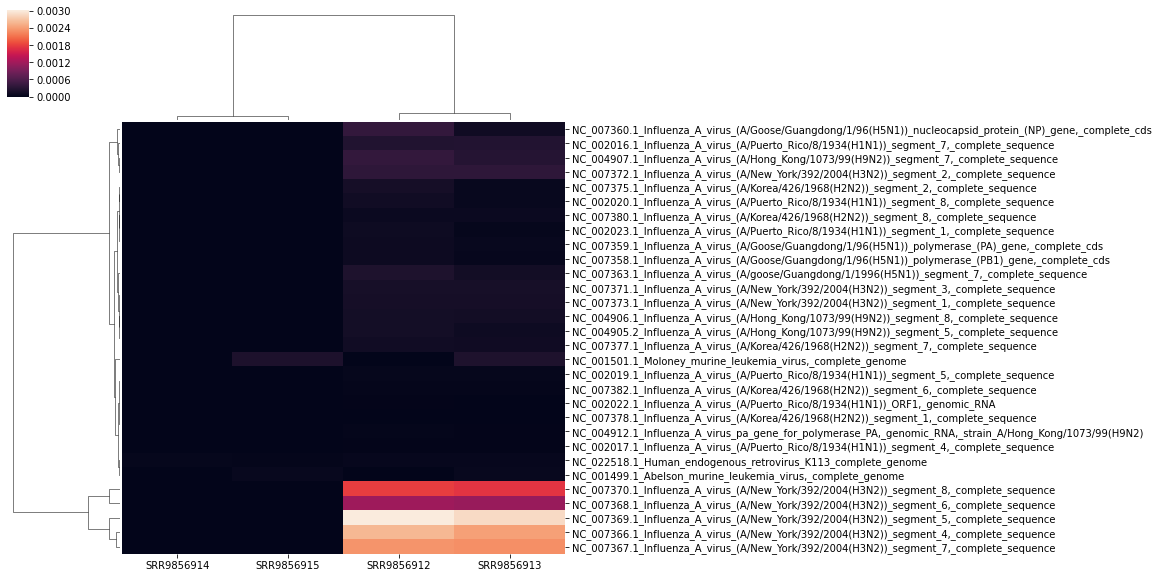
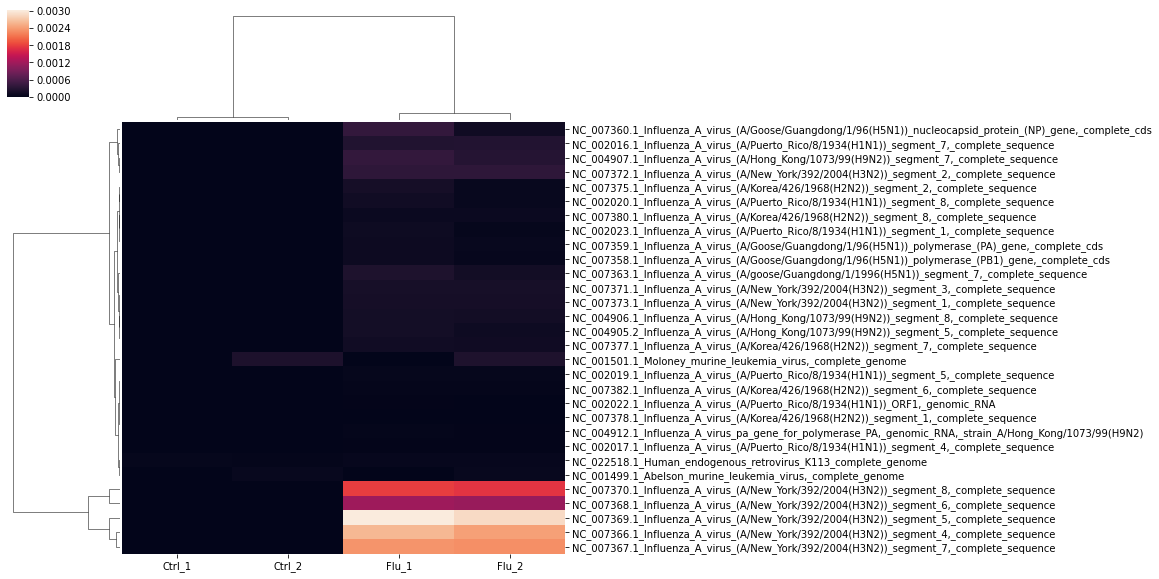
create bin dir

diff --git a/wrapper/VIRTUS_wrapper.py b/wrapper/VIRTUS_wrapper.py
@@ -17,7 +17,7 @@ mpl.rcParams['ps.fonttype'] = 42
 parser = argparse.ArgumentParser()
 
 parser.add_argument('input_path')
-parser.add_argument('--VIRTUSDir', required = True)
+parser.add_argument('--VIRTUSDir', default = os.path.dirname(os.path.abspath(__file__)))
 parser.add_argument('--genomeDir_human', required = True)
 parser.add_argument('--genomeDir_virus', required = True)
 parser.add_argument('--salmon_index_human', required = True)
@@ -33,10 +33,16 @@ args = parser.parse_args()
 
 # %%
 df = pd.read_csv(args.input_path)
+df.columns = ["Name", "SRR", "Layout"] + list(df.columns[4:])
 first_dir = os.getcwd()
 
+print(args.VIRTUSDir)
 try:
-    if not os.path.exists(os.path.join(args.VIRTUSDir, "workflow/VIRTUS.PE.cwl")):
+    if os.path.exists(os.path.join(args.VIRTUSDir, "workflow/VIRTUS.PE.cwl")):
+        dir_VIRTUS = os.path.join(args.VIRTUSDir, "workflow/VIRTUS.PE.cwl")
+    elif os.path.exists(os.path.join(args.VIRTUSDir, "VIRTUS.PE.cwl")):  
+        dir_VIRTUS = os.path.join(args.VIRTUSDir, "VIRTUS.PE.cwl")
+    else:
         raise ValueError('not found VIRTUS.PE.cwl or VIRTUS.SE.cwl')
 except (ValueError, IndexError):
     exit('invalid path to VIRTUS. try to change --VIRTUSDir to the absolute path.')
@@ -48,7 +54,7 @@ clean_cmd = "rm -rf tmp"
 for index, item in df.iterrows():
     if args.fastq == False:
         dir = item["SRR"]
-        sample_index = item["SRR"]
+        sample_index = item["Name"]
         prefetch_cmd = " ".join(["prefetch",sample_index])
         fasterq_cmd = " ".join(["fasterq-dump", "--split-files", sample_index + ".sra", "-e","16"])
 
@@ -58,8 +64,8 @@ for index, item in df.iterrows():
         elif item["Layout"] == "SE":
             fastq = sample_index + ".sra_1.fastq"
     else:
-        dir = os.path.dirname(item["fastq"])
-        sample_index = os.path.basename(item["fastq"])
+        dir = os.path.dirname(item["SRR"])
+        sample_index = os.path.basename(item["SRR"])
         if item["Layout"] == "PE":
             fastq1 = sample_index + args.Suffix_PE_1
             fastq2 = sample_index + args.Suffix_PE_2
@@ -69,7 +75,7 @@ for index, item in df.iterrows():
     if item["Layout"] =="PE":
         VIRTUS_cmd = " ".join([
             "cwltool --tmpdir-prefix tmp/",
-            os.path.join(args.VIRTUSDir, "workflow/VIRTUS.PE.cwl"), 
+            os.path.join(dir_VIRTUS, "workflow/VIRTUS.PE.cwl"), 
             "--fastq1", fastq1,
             "--fastq2", fastq2, 
             "--genomeDir_human", args.genomeDir_human, 
@@ -82,7 +88,7 @@ for index, item in df.iterrows():
     elif item["Layout"] =="SE":
         VIRTUS_cmd = " ".join([
             "cwltool --tmpdir-prefix tmp/",
-            os.path.join(args.VIRTUSDir, "workflow/VIRTUS.SE.cwl"), 
+            os.path.join(dir_VIRTUS, "workflow/VIRTUS.SE.cwl"), 
             "--fastq", fastq,
             "--genomeDir_human", args.genomeDir_human, 
             "--genomeDir_virus", args.genomeDir_virus,
@@ -132,7 +138,7 @@ for index, item in df.iterrows():
     try:
         df_virus = pd.read_table("virus.counts.final.tsv", index_col = 0)
         series_virus = df_virus.loc[:,"rate_hit"]
-        series_virus = series_virus.rename(sample_index)
+        series_virus = series_virus.rename(item['Name'])
         series_list.append(series_virus)
     except:
         print("virus.counts.final.tsv not found")

diff --git a/bin/VIRTUS_wrapper.py b/bin/VIRTUS_wrapper.py
@@ -1,0 +1,1 @@
+../wrapper/VIRTUS_wrapper.py

diff --git a/README.md b/README.md
@@ -13,7 +13,7 @@ Virus transcript detection and quantification using normal human RNAseq. VIRTUS 
 git clone https://github.com/yyoshiaki/VIRTUS
 ```
 
-You can add `./VIRTUS/workflow` to `PATH` in `.zshrc` or `.bashrc` etc.
+You can add `./VIRTUS/bin` to `PATH` in `.zshrc` or `.bashrc` etc.
 
 ## Version confirmation
 
@@ -356,15 +356,15 @@ Please install Python libraries below using `pip install` beforehand. anaconda m
 
 |  name  |  SRR |  Layout  | Group | ... |
 | ---- | ---- | - | - | - |
-|  test1  | SRR9856913 | PE | infected | ...|
-|  test2  |  SRR9856914  | PE  | Mock | ... |
+|  Inf_1  | SRR9856913 | PE | infected | ...|
+|  Ctrl_1  |  SRR9856914  | PE  | Mock | ... |
 
 **fastq mode**
 
 |  name  |  fastq |  Layout  | Group | ... |
 | ---- | ---- | - | - | - |
-|  test1  | hoge/SRR9856913 | PE | infected | ...|
-|  test2  |  hoge/SRR9856914  | PE  | Mock | ... |
+|  Inf_1  | hoge/SRR9856913 | PE | infected | ...|
+|  Ctrl_1  |  hoge/SRR9856914  | PE  | Mock | ... |
 
 - If you want to use your own fastq, add `---fastq` option. This wrapper supports only `.fastq` and `.fastq.gz`.
 
@@ -412,7 +412,7 @@ example
 
 ![img/clustermap.png](img/clustermap.png)
 
-The value is the ratio of viral reads (hit viral reads / read mapped on human genome).
+The value is the ratio of viral reads (hit viral reads/read mapped on the human genome).
 
 ## virus detection for 10x or Dropseq
 
